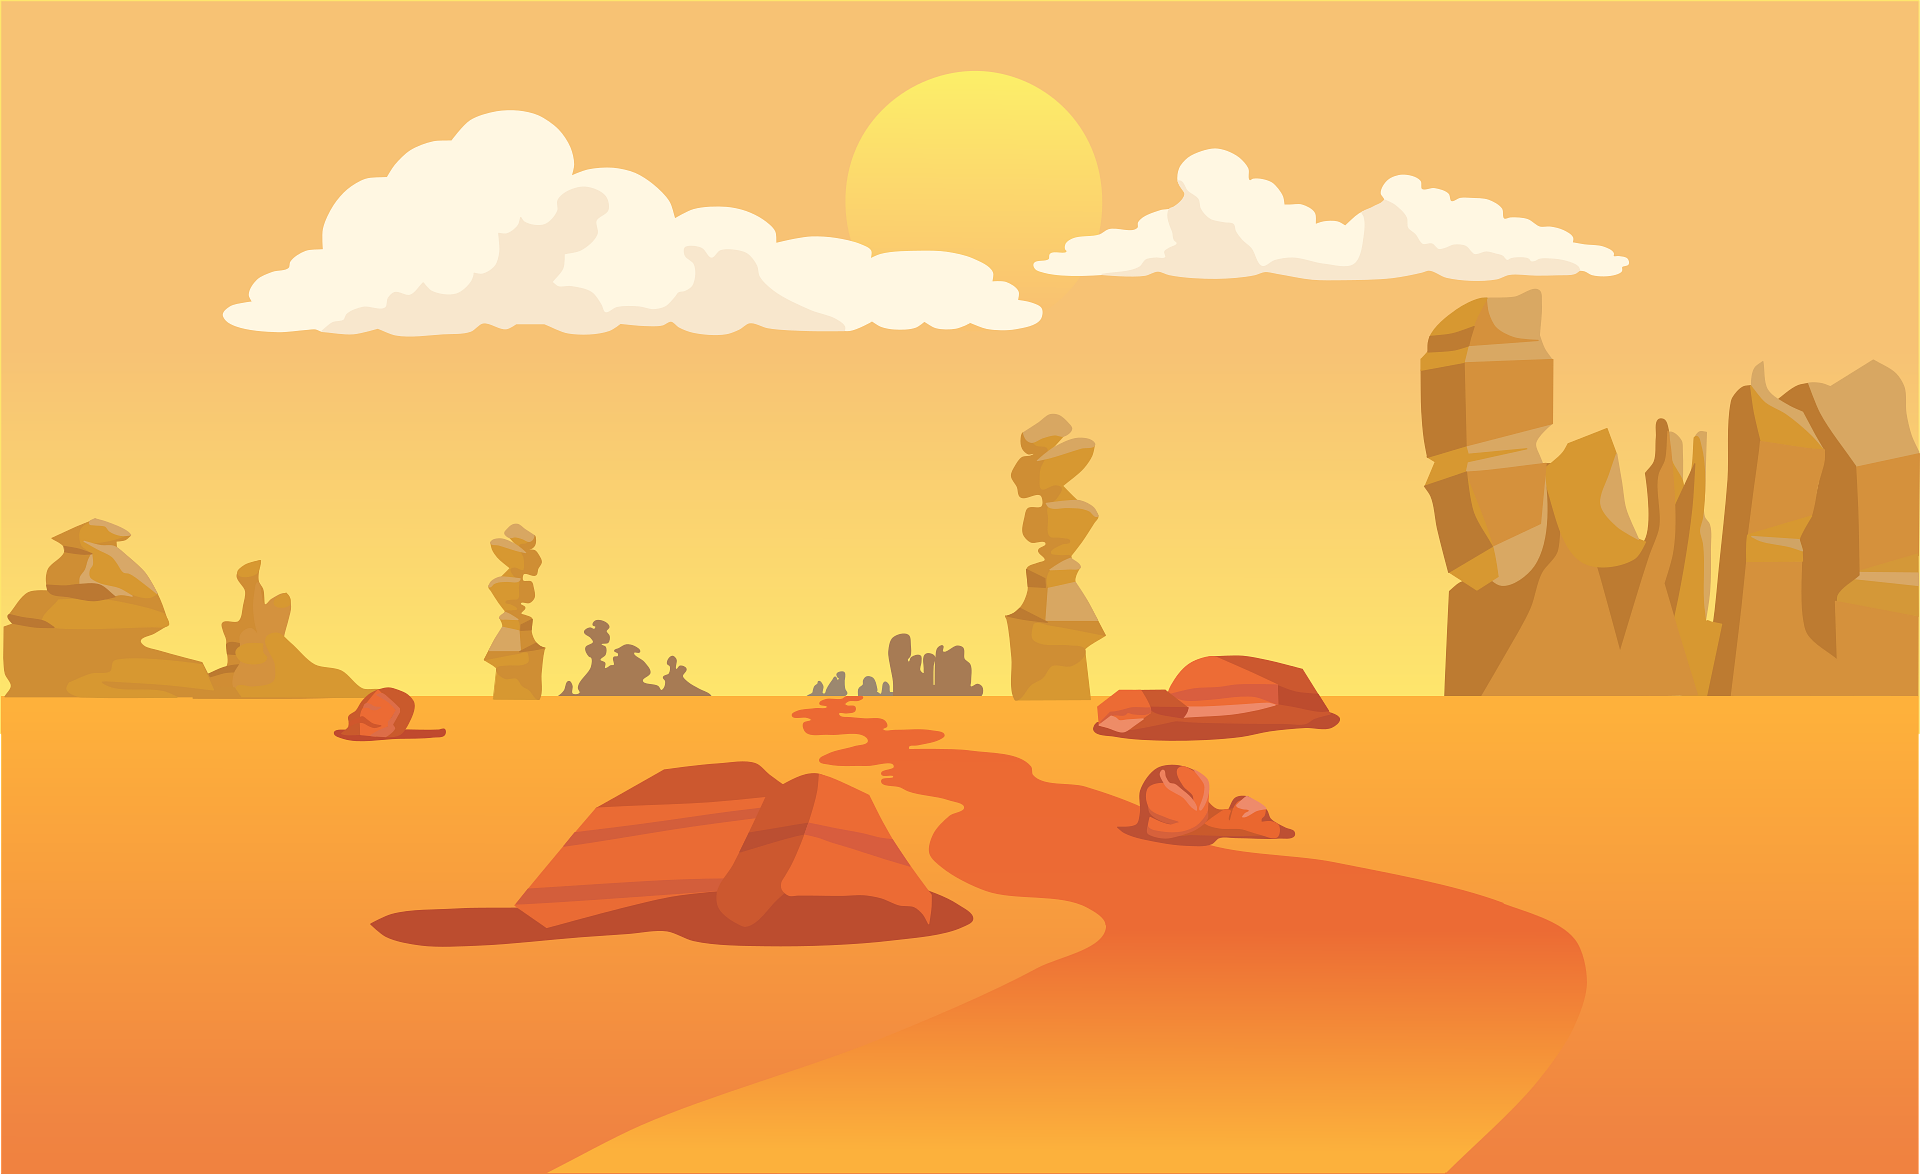
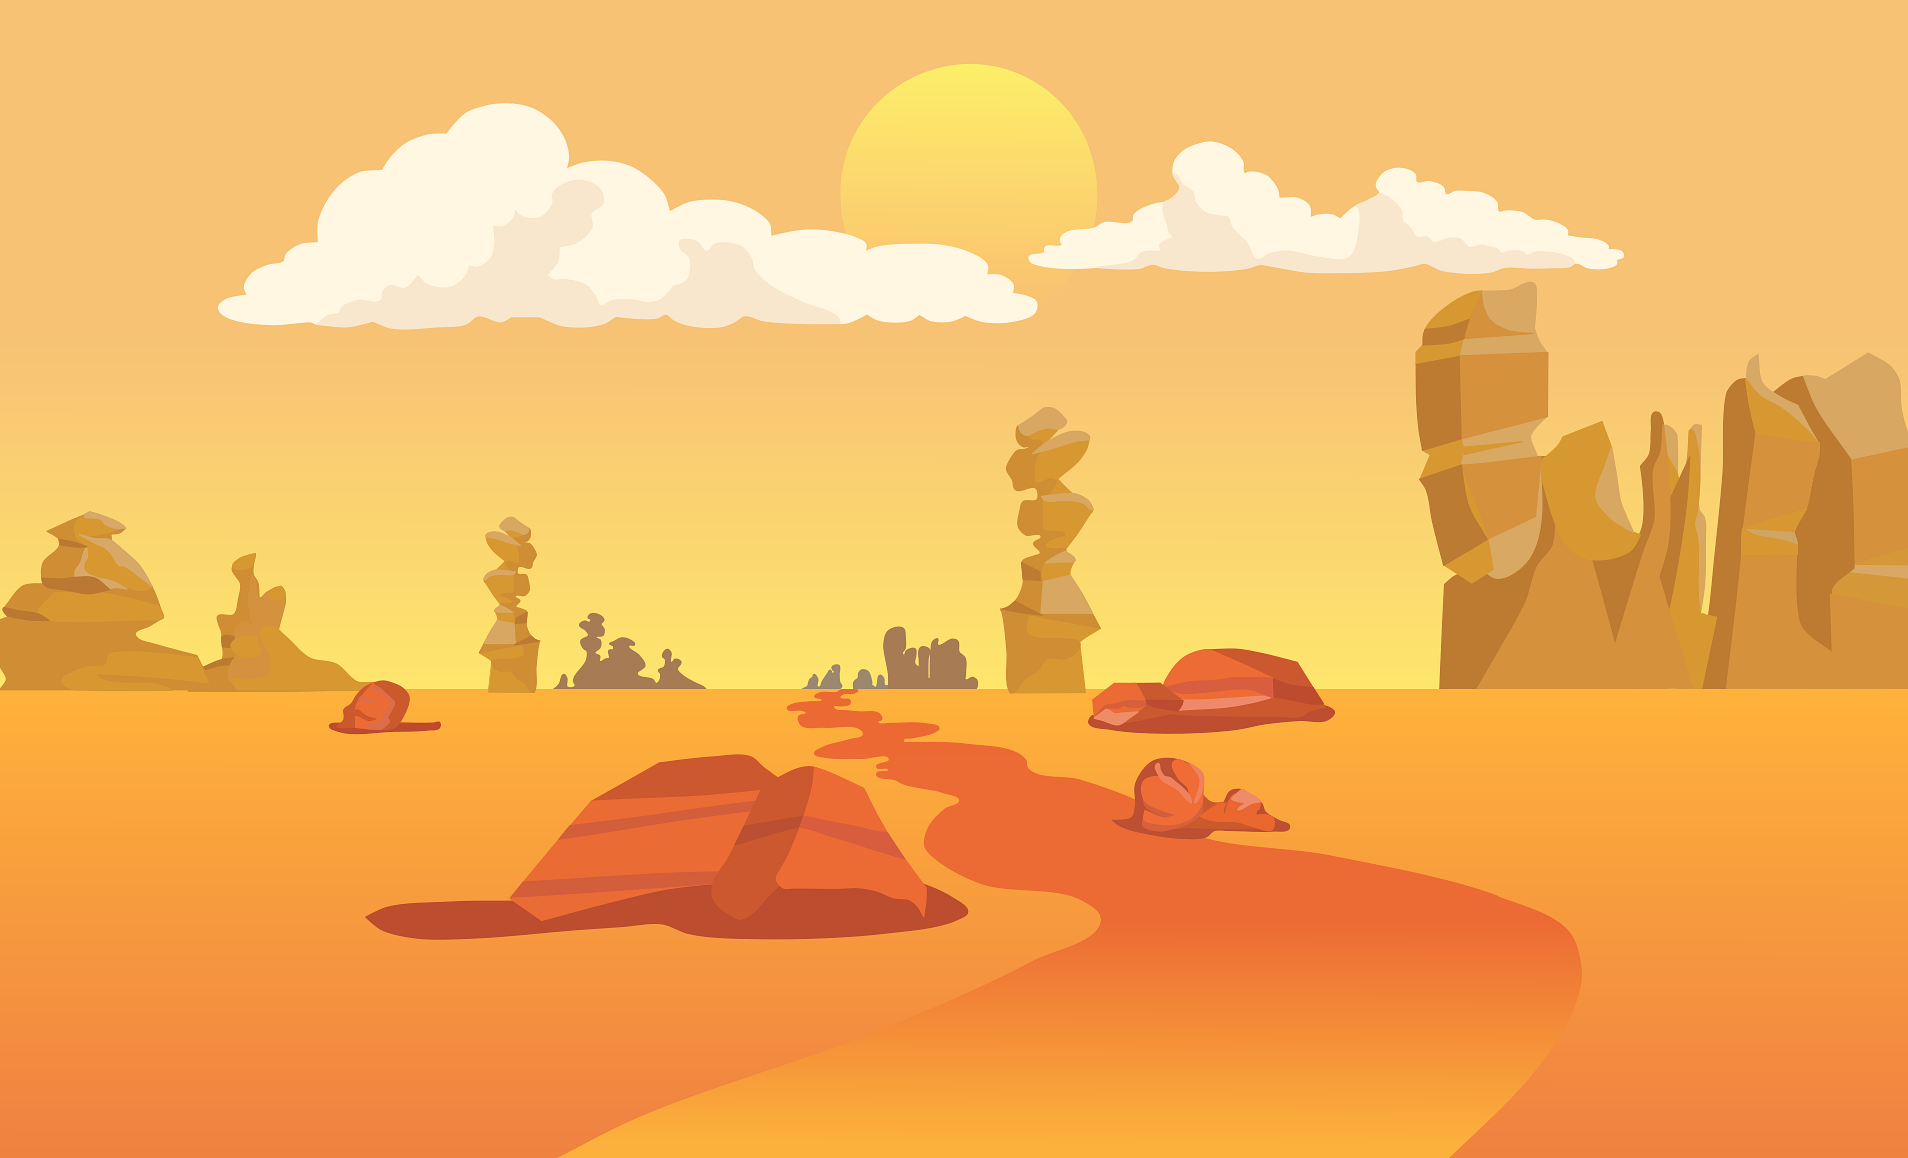
Desing changed for Widescreen

diff --git a/style.css b/style.css
@@ -20,6 +20,8 @@
 
 body {
   background-image: url(assets/img/background.png);
+  background-size: cover;
+  background-position: center;
   font-family: "zebars", Helvetica, sans-serif;
 }
 
@@ -64,6 +66,7 @@ dialog:focus-visible {
 dialog {
   scrollbar-width: auto;
   scrollbar-color: var(--btn-secendary) transparent;
+  max-width: 1440px;
 }
 
 dialog::-webkit-scrollbar {

diff --git a/script.js b/script.js
@@ -22,4 +22,3 @@ function closeDialog(event) {
 
 // TODO Cooldown auf Bottle nicht auf Endboss
 // TODO Flasche auch nach links werfen
-// TODO Design by Widescreen
